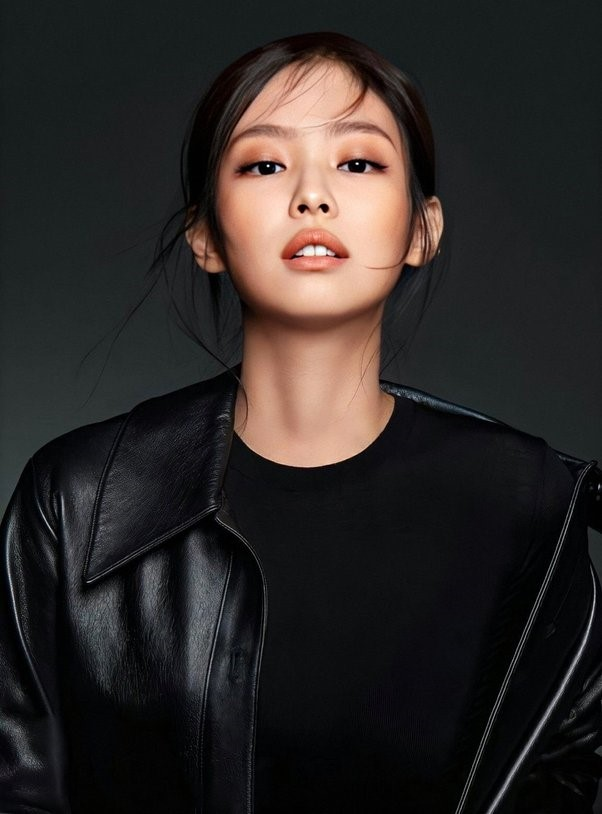
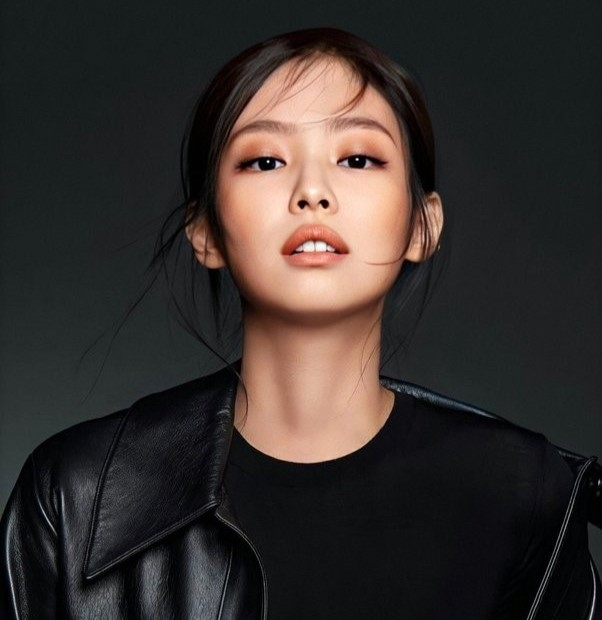
Worked On images

diff --git a/index.html b/index.html
@@ -7,33 +7,30 @@
     <link rel="stylesheet" href="style.css" />
   </head>
   <body>
-    <header>
-      <h1 id="main-title">Kim Jennie BlackPink</h1>
-    </header>
-    <main>
+    <main id="main">
+      <header>
+        <h1 id="title">Kim Jennie BlackPink</h1>
+      </header>
       <section id="main-section">
-        <div id="jennie-image">
-          <img src="Images/Jennie .jpeg" alt="Jennie Image" id="main-image" />
+        <div id="img-div">
+          <img src="Images/Jennie .jpeg" alt="Jennie Image" id="image" />
+          <figcaption id="img-caption">Jennie showcasing her talent</figcaption>
         </div>
-        <div id="about">
-          <h1>About Jennie</h1>
+        <div id="tribute-info">
+          <h2>About Jennie</h2>
           <p>
             Jennie Kim (Korean: 김제니; born January 16, 1996), known
             mononymously as Jennie, is a South Korean singer, rapper, and
             actress. Born and raised in South Korea, Jennie studied in New
             Zealand for five years before returning to South Korea in 2010.
-            <br />
-
-            Known for her mesmerising stage presence and versatile talent,
+            Known for her mesmerizing stage presence and versatile talent,
             Jennie has not only dominated the K-pop scene as a part of the
             record-breaking girl group but has also carved her niche as a solo
-            artist.<br />
-            Jennie has officially announced that she has established her own
-            agency. Jennie personally confirmed the reports that she has
+            artist. Jennie has officially announced that she has established her
+            own agency. Jennie personally confirmed the reports that she has
             officially established her own agency called OA (ODD ATELIER)
           </p>
-          <h1>About BlackPink</h1>
-
+          <h2>About BlackPink</h2>
           <p>
             Jennie Kim, often known simply as Jennie, is a South Korean rapper,
             singer, and dancer. She rose to fame as a member of the popular
@@ -42,40 +39,33 @@
             personality, and versatile talent. Throughout her career, Jennie has
             been recognized for her contributions to music, fashion, and
             culture, solidifying her status as one of the leading figures in the
-            global entertainment industry. BlackPink memener are Jisoo, LaLisa,
-            Park rose, and hondsome Kin Jennie.
+            global entertainment industry. BlackPink members are Jisoo, LaLisa,
+            Park rose, and handsome Kim Jennie.
           </p>
         </div>
       </section>
-      <section id="secend-section">
-        <table>
-          <tr>
-            <td>
-              <img src="Images/images (4).jpeg" alt="" />
-              <figcaption id="img-caption">
-                Jennie showcasing her talent
-              </figcaption>
-            </td>
-            <td>
-              <img src="Images/images.jpeg" alt="" />
-              <figcaption id="img-caption">
-                Jennie showcasing her talent
-              </figcaption>
-            </td>
-            <td>
-              <img src="Images/images (2).jpeg" alt="" />
-              <figcaption id="img-caption">
-                Jennie showcasing her talent
-              </figcaption>
-            </td>
-          </tr>
-        </table>
+      <section id="second-section">
+        <div id="images-table">
+          <table>
+            <tr>
+              <td>
+                <img src="Images/images (4).jpeg" alt="" />
+              </td>
+              <td>
+                <img src="Images/lux.jpg" alt="" />
+              </td>
+              <td>
+                <img src="Images/ex1.jpg" alt="" />
+              </td>
+            </tr>
+          </table>
+        </div>
       </section>
+      <footer>
+        <div id="footer">
+          <a id="tribute-link" href="#" target="_blank">More Information</a>
+        </div>
+      </footer>
     </main>
-    <footer>
-      <div id="foter">
-        <a href="">More Information</a>
-      </div>
-    </footer>
   </body>
 </html>

diff --git a/style.css b/style.css
@@ -1,8 +1,9 @@
 body {
   margin: 0;
-  background-image: url(Images/des.jpeg);
+  background-image: url(Images/des1.jpeg);
   background-repeat: no-repeat;
-  background-size: 100% 500px;
+  background-size: contain;
+  background-size: 100% 850px;
   background-position: 0 80px;
 }
 
@@ -12,40 +13,63 @@ body {
   font-size: 45px;
 }
 
-td img {
-  max-width: 100%;
-  height: 300px;
-  margin-left: 10px;
-  border-radius: 15px;
-  border: 1px solid #ccc;
-  border-radius: 5px;
-  box-shadow: 1px 1px 5px rgba(0, 0, 0, 0.5);
-  opacity: 100%;
-}
-
-#main-image {
-  max-width: 365px;
-  height: auto;
-  margin-top: 20px;
-  border-radius: 0;
-}
-
-#main-section {
-  display: flex;
-}
-
-#about {
+#main {
+  text-align: center;
   color: white;
+}
+
+#img-div {
+  max-width: 100%;
+  width: 400px;
+  height: auto;
+  /* height: 300px; */
+  margin-top: 30px;
+  border-radius: 0;
+  display: block;
+  margin: 0 auto; /* Center the image */
+}
+
+img {
+  display: block;
+  max-width: 100%; /* Set max-width of image to 100% */
+  height: auto; /* Set height to auto for responsive resizing */
+  margin: 0 auto; /* Center the image */
+  /* border-radius: 50%; */
+}
+
+#image {
+  margin-top: 30px;
+}
+
+#img-caption {
+  margin-top: 10px;
+  font-style: italic;
+  color: #999;
+  text-align: center;
+}
+
+#tribute-info {
   padding: 50px 30px;
-  text-align: justify;
+  text-align: center justify;
 }
 
 table {
-  margin: 50px auto;
+  margin: 50px auto 50px auto;
   padding: 10px;
+  border: 1px solid white;
 }
 
-#foter {
+td {
+  width: 200px;
+  height: 200px;
+  /* background-color: blueviolet; */
+}
+
+td img {
+  border-radius: 50%;
+  box-shadow: 10px 10px 5px rgba(0, 0, 0, 0.1);
+}
+#footer {
   background-color: black;
   width: 100%;
   height: 70px;
@@ -66,6 +90,7 @@ a {
   border: 1px solid white;
   box-shadow: -1px 1px 10px white;
 }
+
 a:hover {
   background-color: rgba(255, 255, 255, 0.8);
   color: black;
@@ -74,9 +99,15 @@ a:hover {
   border: 1px solid rgb(255, 255, 255);
 }
 
-#img-caption {
-  margin-top: 10px;
-  font-style: italic;
-  color: #999;
+#main-section {
+  display: flex;
+  flex-direction: column;
+}
+
+#title {
+  margin: 10px 0 0 0;
   text-align: center;
+  font-size: 45px;
+  color: rgb(9, 9, 9);
+  text-shadow: 1px 1px 15px rgba(0, 0, 0, 0.9);
 }
